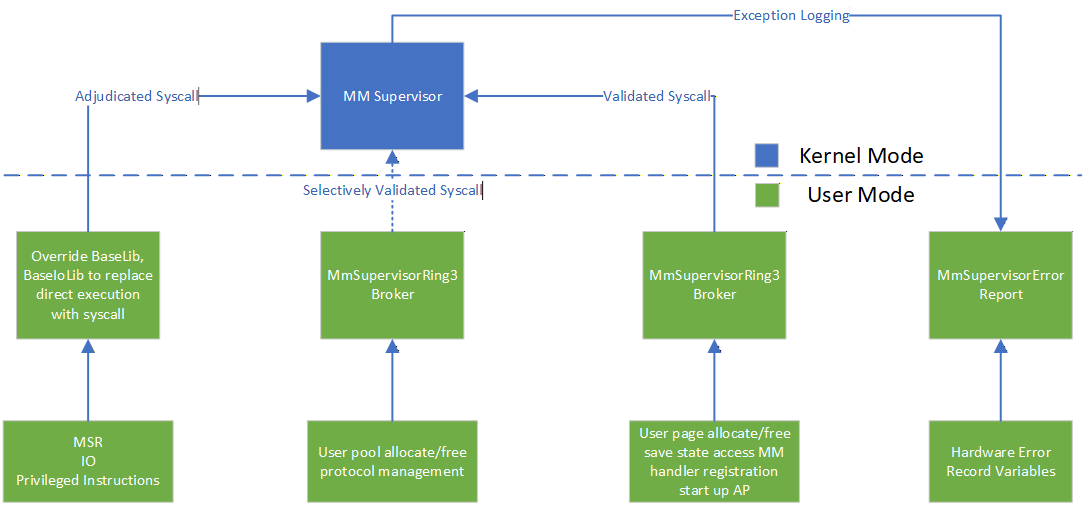
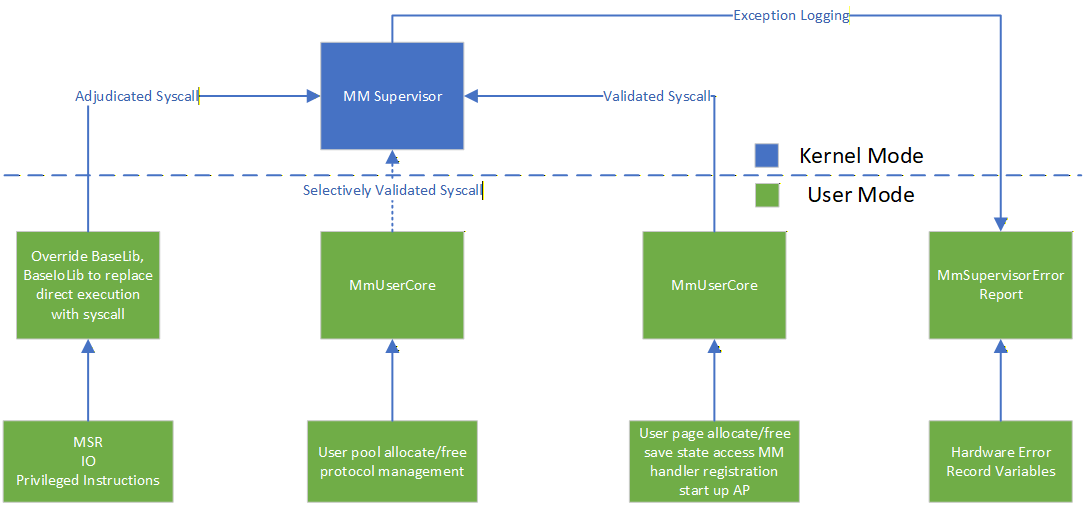
adding more comments after implementation

Changed region(s): [[0.5779, 0.5315, 0.73, 0.5906], [0.3041, 0.5315, 0.4258, 0.5906]]

diff --git a/docs/src/rfc/text/0000-mm-supv.md b/docs/src/rfc/text/0000-mm-supv.md
@@ -6,11 +6,12 @@ This RFC proposes a Rust-based supervisor to manage management mode (MM) operati
 
 - 2025-10-27: Initial RFC created.
 - 2025-01-09: Updated data handoff to HOB based model, advanced lock down event, added nutrient content tables.
+- 2025-02-23: Updated data handoff requirements after initial implementation. Added key differences from previous C implementations.
 
 ## Motivation
 
-Privilege separation in MM is critical for secure and reliable firmware execution, as MM code handles sensitive tasks such as
-system management interrupts (SMIs) and other privileged operations. By implementing the MM supervisor in Rust,
+Privilege separation in MM is critical for secure and reliable firmware execution, as MM code handles sensitive tasks such
+as system management interrupts (SMIs) and other privileged operations. By implementing the MM supervisor in Rust,
 we aim to leverage Rust's safety guarantees, memory management, and concurrency features to enhance the robustness
 of MM operations.
 
@@ -26,7 +27,8 @@ See reference: [PI specification v1.9](https://uefi.org/specs/PI/1.9/V4_Overview
 
 ### MM Supervisor
 
-A [project MU module](https://github.com/microsoft/mu_feature_mm_supv) implements a standalone MM supervisor in C. This module provides supervised MM functionality.
+A [project MU module](https://github.com/microsoft/mu_feature_mm_supv) implements a standalone MM supervisor in C. This
+module provides supervised MM functionality.
 Specifically, it manages MM handlers, MM protocol database, memory mapping, context switching, and secure execution of MM
 code. However, it lacks the safety and modern features that Rust can offer.
 
@@ -120,23 +122,9 @@ will be shut down at ExitBootServices, and the DXE agent hosting Supervisor comm
 [DxeSupport](https://github.com/microsoft/mu_feature_mm_supv/blob/main/MmSupervisorPkg/Drivers/MmPeiLaunchers/MmDxeSupport.inf))
 will be marked as boot services drivers (in contrast to runtime drivers).
 
-### MMI Entry Point
-
-This entry point is the assembly routine responsible for handling incoming MMIs. It will transition the CPU from 16-bit real mode
-all the way to 64-bit long mode, setting up the necessary environment for MM execution.
-
-This section is expected to be mostly similar to an implementation for Project MU's SMM Enhanced Attestation (SEA), which
-separated the critical jump pointers to data sections, allowing for easier inspection and updates.
-
-The main differences will be:
-
-1. The MMI entry point will need to handle MMI targeting evaluation (supervisor vs Ring3 broker)
-2. The MMI entry point will need to fix up an extra jump pointer to the Ring3 broker entry point
-3. The MMI entry point will enforce SMAP in CR4 for MM user mode execution
-
 ### MM Foundation Setup
 
-The MM foundation setup involves the following key tasks:
+The MM foundation setup, also called `mm_init` (pronunced as "minute"), involves the following key tasks:
 
 - Initialize memory services specific to MM
 - Initialize copied HOBs from non-MM environment
@@ -223,17 +211,44 @@ The following HOBs will be required for bootstrapping the Rust MM supervisor:
   };
 ```
 
+### MMI Entry Point
+
+This entry point is the assembly routine responsible for handling incoming MMIs. It will transition the CPU from 16-bit
+real mode all the way to 64-bit long mode, setting up the necessary environment for MM execution.
+
+This section is expected to be mostly similar to an implementation for Project MU's SMM Enhanced Attestation (SEA), which
+separated the critical jump pointers to data sections, allowing for easier inspection and updates.
+
+Accordingly, SEA responder structure attached to MMI entry code will be updated to v5, with the
+following fixup entry definitions:
+
+```c
+#define FIXUP64_SMM_DBG_ENTRY     0
+#define FIXUP64_SMM_DBG_EXIT      1
+#define FIXUP64_SMI_RDZ_ENTRY     2
+#define FIXUP64_XD_SUPPORTED      3
+#define FIXUP64_CET_SUPPORTED     4
+#define FIXUP64_SMI_HANDLER_IDTR  5
+#define FIXUP64_HOB_START         6
+```
+
+The main differences will be:
+
+1. The MMI entry point will not populate debugger entries like before
+1. The MMI entry point will need to fix up an extra input pointer to the ring3 mapped hob list
+1. The MMI entry point will enforce SMAP in CR4 for MM user mode execution
+
 ### MM Foundation Handoff Data to Rust MM Supervisor
 
 Given that the MM foundation setup is separated from the Rust MM supervisor, it will be necessary to separate the MM foundation
 produced data from the Rust MM supervisor. This data will be categorized into initialization-only data, shared data and
 external data.
 
-The initialization-only data will be used during the foundation setup phase and will be discarded after
-the foundation setup phase. These data fields will be fully contained as part of the initialization-only data section, and
-will be purged after the foundation setup phase.
+The initialization-only data will be used during the mm_init phase and will be discarded after
+the mm_init phase. These data fields will be fully contained as part of the initialization-only data section, and
+will be purged after the mm_init phase.
 
-The shared data fields will be passed from the foundation setup phase to the Rust MM supervisor region in MMRAM. i.e. memory
+The shared data fields will be passed from the mm_init phase to the Rust MM supervisor region in MMRAM. i.e. memory
 allocations from setup time, etc. The supervisor will invoke a one-time routine to inspect and/or deploy the shared data
 HOBs upon the first MMI.
 
@@ -251,9 +266,9 @@ previous section.
 #### MMI Targeting
 
 The Rust MM supervisor in the case of incoming MMIs will perform a check on the incoming RCX value to determine if the MMI
-is targeted for the supervisor or for the Ring3 broker. If it is targeted for the supervisor, it will dispatch to the appropriate
-supervisor handler. If it is targeted for the Ring3 broker, it will be transparent and quickly demote to MM user mode after
-performing necessary checks.
+is targeted for the supervisor or for the Rust user core. If it is targeted for the supervisor, it will dispatch to the
+appropriate supervisor handler. If it is targeted for the Rust user core, it will be transparent and quickly demote to MM
+user mode after performing necessary checks.
 
 Note that this is different from the existing C implementation, where the MMI targeting check is performed in a shared buffer
 between supervisor and normal world (aka. `MM_BUFFER_STATUS`).
@@ -266,22 +281,22 @@ MMRAM region, specific to the targeting mode, to ensure data integrity and prote
 If it is targeted for supervisor, the Rust MM supervisor will locate the appropriate supervisor handler and try to dispatch
 it. If the handler is not found, it will return an error status back to the caller.
 
-If it is targeted for Ring3 broker, the Rust MM supervisor will save all the syscall related MSRs, FXSAVE area, and other
-necessary context into the dedicated region and then demote to MM user mode to execute the Ring3 broker.
+If it is targeted for the Rust user core, the Rust MM supervisor will save all the syscall related MSRs, FXSAVE area, and
+other necessary context into the dedicated region and then demote to MM user mode to execute the Rust user core.
 
-The Ring 3 broker section will detail more about how the Ring3 broker is executed and how the context is restored back to
-supervisor mode.
+The Ring 3 broker section will detail more about how the Rust user core is executed and how the context is restored back
+to supervisor mode.
 
 #### Ring Transitioning
 
-The Rust MM supervisor will handle the transitioning between supervisor mode and MM user mode for Ring3 broker execution.
+The Rust MM supervisor will handle the transitioning between supervisor mode and MM user mode for the Rust user core execution.
 
 The demotion to MM user mode will be done via callgates by setting up the necessary callgates and task state segments (TSS)
-during the foundation setup phase. Before transitioning to MM user mode, the Rust MM supervisor will prepare the syscall
+during the mm_init phase. Before transitioning to MM user mode, the Rust MM supervisor will prepare the syscall
 context in the dedicated region, including parameters, MSRs, FX registers, supervisor stack pointer, and return segment
 selector.
 
-During user mode execution, the Ring3 broker will request elevated operations and trigger a syscall interrupt to transition
+During user mode execution, the Rust user core will request elevated operations and trigger a syscall interrupt to transition
 back to supervisor mode. The Rust MM supervisor will handle the syscall interrupt through a syscall dispatcher, restoring
 the saved context and stack before resuming supervisor mode execution.
 
@@ -361,7 +376,7 @@ For page allocation and free syscall, the Rust MM supervisor will manage a dedic
 The policy structure will continue to use the same format as the existing C implementation for compatibility with existing
 operating systems and toolings.
 
-The Rust MM supervisor will inherit the prepared security policies from the foundation setup phase. It will enforce the
+The Rust MM supervisor will inherit the prepared security policies from the mm_init phase. It will enforce the
 policies during syscall dispatching, ensuring that only allowed operations are executed based on the platform defined policies.
 
 The platform supplied policy should include 4 main categories:
@@ -375,7 +390,7 @@ The platform could choose to enforce strict policies that only allow a limited s
 by configuring the policies to allow by default.
 
 Depending on the policy entry content, the syscall dispatcher will either allow or deny the requested operation. For allowed
-operations, syscall will replay the requested operations and return the result back to the Ring3 broker.
+operations, syscall will replay the requested operations and return the result back to the Rust user core.
 
 For denied operations, the syscall dispatcher will return an error status and invoke the telemetry reporting mechanism to
 log the violation event. See more on telemetry reporting in the next sections.
@@ -384,7 +399,7 @@ log the violation event. See more on telemetry reporting in the next sections.
 
 The Rust MM supervisor will manage the page tables for both supervisor and MM user modes.
 
-As the MM core does not have a GCD, it will need to manage the page tables directly. In the foundation setup phase, the
+As the MM core does not have a GCD, it will need to manage the page tables directly. In the mm_init phase, the
 Rust MM supervisor loader will allocate a dedicated page pool for page table usage and security policy reporting.
 
 The loader will then set up the initial page tables, including mapping all necessary MMRAM regions, un-mapping non-MMRAM
@@ -421,7 +436,7 @@ environment supplied buffer for attestation purposes.
 
 Change from previous C implementation: The lock event will be moved from the end of DXE phase to the end of MM foundation
 setup phase to minimize the attack surface. This bears with the prerequisite that all necessary non-MM regions are unblocked
-during the foundation setup phase AND the support of PEI memory bin feature.
+during the mm_init phase AND the support of PEI memory bin feature.
 
 #### Supervisor Pool Allocator
 
@@ -430,7 +445,7 @@ The supervisor pool allocator will stem from dedicated supervisor pages and does
 #### Multiprocessor (MP) Support
 
 The MP support will be similar to the existing C implementation, where the Rust MM supervisor loader will initialize all
-processors during the foundation setup phase.
+processors during the mm_init phase.
 
 Upon invocation of each MMI, Rust MM supervisor will rendezvous all processors to ensure proper synchronization before
 handling the MMI.
@@ -450,6 +465,19 @@ the requested operation. During the operation, should the user mode operations r
 will trigger syscall interrupts to transition back to supervisor mode to handle the requests, if this is allowed by the
 security policies.
 
+#### Supervisor Patina Components
+
+Sticking to the same sensation of componentization as the existing Patina implementation for DXE enivonrment, the Rust MM
+supervisor will also support extensible components through the Patina component model. The components will be linked in
+the supervisor mode during build time and no dynamic loading will be supported for supervisor mode components to minimize
+the attack surface and simplify the implementation.
+
+#### Supervisor Handlers
+
+To simplify the implementation, the Rust MM supervisor will host a static set of critical handlers in the supervisor mode
+through `linkme`. The handlers will be iterated through if an MMI is found targeting the supervisor, and the first matched
+handler will be dispatched after validation.
+
 #### Rust MM Supervisor `Nutrient` Content
 
 With the above design in place, the first attempt will keep the Rust MM supervisor in parallel with the patina_dxe_core.
@@ -466,9 +494,26 @@ The Rust MM supervisor should consist of the following main components:
 | Page Table Manager | The page table manager for managing page tables for both supervisor and user modes | BSP | patina-paging |
 | Pool Allocator | The pool allocator for supervisor mode allocations | BSP | patina_dxe_core allocator, needs file relocation |
 
-### MM Ring3 Broker in Rust
+#### Change from previous C implementation
 
-This component will run in the MM user mode, providing a safe interface for MM clients to interact with the MM supervisor.
+- No BSP election mode will be supported: This is to ensure the deterministic execution of the MMI handlers, as well as
+simplifying the implementation by avoiding the need to handle the complexities of BSP election and the potential for
+executing MMI handlers on non-performant processors.
+- MTRR reconfiguration is disabled: Given the original purpose of MTRR reconfiguration is to cover the usage on IA32 and
+our current focus on x64 only, the MTRR reconfiguration will be disabled to simplify the implementation.
+- 1GB page support is a must: During mm_init phase, the initialization routine will inspect the CPU capabilities and set
+up the page tables with 1GB page support if available. The system will panic if the 1GB page support is not supported.
+This is to ensure the best performance for MM execution given the potential large memory size covered by MM, as well as
+simplifying the patina-paging implementation.
+- No CET support: Current C implementation has the superficial support for Control-flow Enforcement Technology (CET) by
+inheriting the code from PiSmmCpuDxeSmm, but it is not fully validated and has never been enabled. Given the complexity
+of CET implementation and needed patches in the MMI entry point, the CET support will be dropped in the first iteration
+of the Rust MM supervisor implementation.
+
+### MM Rust User Core in Rust
+
+This component will run in the MM user mode, (mm_user_core, pronounced as "muserker") providing a safe interface for MM
+clients to interact with the MM supervisor.
 The elevated operations will be requested through syscall, which will be handled by the Rust MM supervisor after security
 policy guided adjudication.
 
@@ -476,6 +521,7 @@ This component will be responsible for:
 
 - Initializing the MM user mode environment
 - Setting up telemetry reporting and fail fast component
+- Hosting the single jump pointer from supervisor mode to user mode through callgate
 - Providing shim version of MP services
 - Hosting pool allocator for MM user mode allocations
 - Hosting page allocator for MM user mode through syscall
@@ -484,31 +530,36 @@ This component will be responsible for:
 - Registering and dispatching fundamental events during boot phase for MM user mode
 - Dispatching other MM user mode drivers
 
-#### X64 Ring3 Broker Bootstrapping
+#### X64 Rust User Core Bootstrapping
 
-This section will detail the x86_64 specific bootstrapping steps for the Ring3 broker.
+This section will detail the x86_64 specific bootstrapping steps for the Rust user core.
 
-The Ring3 broker will have one and only one entry point, which will be patched into the MMI entry point during the foundation
+The Rust user core will have one and only one entry point, which will be patched into the MMI entry point during the foundation
 setup phase.
 
 The entry point will support 3 types of invocations:
 
-- Initialization: The first invocation will be from the Rust MM supervisor during the foundation setup phase to initialize
-  the Ring3 broker environment.
+- Initialization: The first invocation will be from the Rust MM supervisor during the mm_init phase to initialize
+  the Rust user core environment. Specifically, this involves:
+  - Setting up memory service;
+  - Initialize MMI handler database for MM user mode;
+  - Initialize protocol database for MM user mode;
+  - Iterate through the HOB list and discover the loaded MM standalone drivers, as well as their dependencies, and dispatch
+  accordingly;
 - Normal MMI handling: Subsequent invocations will be from the Rust MM supervisor during normal MMI handling to demote
-  to MM user mode for Ring3 broker execution.
+  to MM user mode for Rust user core execution.
 - Exception Handling: Invocations from the supervisor to log exceptions.
 
-When the supervisor demotes to MM user mode for Ring3 broker execution, RCX will contain the opcode for needed operation.
+When the supervisor demotes to MM user mode for Rust user core execution, RCX will contain the opcode for needed operation.
 
-#### MM Ring3 Broker `Nutrient` Content
+#### MM Rust User Core `Nutrient` Content
 
-With the above design in place, the first attempt will keep the ring3 broker in parallel with the patina_dxe_core.
+With the above design in place, the first attempt will keep the rust user core in parallel with the patina_dxe_core.
 The Rust MM supervisor should consist of the following main components:
 
 | Component | Description | Executor | Status |
 | - | - | - | - |
-| Initialization Routine | The one-time initialization routine for the ring3 broker | BSP | Similar to the entrypoint of patina_dxe_core, but needs some moderate adaptations |
+| Initialization Routine | The one-time initialization routine for the rust user core | BSP | Similar to the entrypoint of patina_dxe_core, but needs some moderate adaptations |
 | Protocol Database | The protocol database for MM user mode | BSP | patina_dxe_core protocol DB, needs file relocation and non-TPL based lock |
 | MMI Handler Database | The MMI handler database for MM user mode | BSP | To be implemented |
 | MM services table | The MM services table (gMmst) for MM user mode | BSP | To be implemented |
@@ -517,21 +568,21 @@ The Rust MM supervisor should consist of the following main components:
 | Pool Allocator | The pool allocator for user mode allocations | BSP | patina_dxe_core allocator, needs file relocation |
 | Shim MP Services | The MP services that requests supervisor to perform operations on behalf of MM user mode | BSP | To be implemented |
 
-### MM User Mode Driver Model
+### MM User Mode Component Model
 
 ### Telemetry Reporting and Fail Fast Mechanism
 
-The telemetry reporting and fail fast mechanism will be hosted in the Rust ring3 broker in the form of a component so that
-the coverage will be comprehensive since the boot phase.
+The telemetry reporting and fail fast mechanism will be hosted in the Rust user core in the form of a patina component so
+that the coverage will be comprehensive since the boot phase.
 
 When this operation is invoked from supervisor mode, the Rust MM supervisor will pass the some information from the exception
-site to the Ring3 broker for logging, including:
+site to the Rust user core for logging, including:
 
 - Instruction pointer (RIP)
 - Exception type
 
-The exception logging will be done in the Ring3 broker, which will format the information log entry into a predefined WHEA
-section, formatted as below:
+The exception logging will be done in the Rust user core, which will format the information log entry into a predefined
+WHEA section, formatted as below:
 
 ```Rust
 struct MmExceptionLogEntry {
@@ -552,10 +603,10 @@ pub const WHEA_TELEMETRY_SECTION_TYPE_GUID: efi::Guid =
     efi::Guid::from_fields(0x85183a8b, 0x9c41, 0x429c, 0x93, 0x9c, &[0x5c, 0x3c, 0x08, 0x7c, 0xa2, 0x80]);
 ```
 
-If the UEFI variable service is available, the Ring3 broker will attempt to write the log entry into a HwErrRec UEFI
+If the UEFI variable service is available, the Rust user core will attempt to write the log entry into a HwErrRec UEFI
 variable for persistence across reboots. Otherwise, it will store the log entry into CMOS for retrieval across reboots.
 
-Fail fast mechanism will be HEST ACPI table based. Once the telemetry reporting routine is completed, the Ring3 broker
+Fail fast mechanism will be HEST ACPI table based. Once the telemetry reporting routine is completed, the Rust user core
 will inject a fatal error into the HEST table before returning back to supervisor mode.
 
 Once back in supervisor mode, the Rust MM supervisor will inject an NMI into the current core before returning, which will
@@ -591,7 +642,7 @@ The Rust-based MM supervisor will provide a safer and more efficient implementat
 safety guarantees and modern features. It will be integrated with the Patina framework to ensure a consistent and efficient
 implementation.
 
-  The supervisor will handle MMIs, manage memory and page tables, and enforce security policies, while the Ring3 broker
+  The supervisor will handle MMIs, manage memory and page tables, and enforce security policies, while the Rust user core
   will provide a safe interface for MM clients to interact with the MM supervisor.
 
   The Rust MM supervisor will be designed to minimize the amount of code in supervisor mode, reduce the attack surface,
@@ -608,13 +659,13 @@ as well as closing and locking MMRAMs after initialization.
 2. __MM Foundation Setup__: The MM foundation setup will be performed by the MM initialization module, which will prepare
 the environment for the Rust MM supervisor. This includes initializing memory services, setting up MM entry code, stack
 buffers, setting up page tables, initializing secure policies, setting up IDT and GDT, as well as privilege management routines.
-3. __MM Foundation Handoff__: The data prepared during the foundation setup phase will be updated to the Rust MM supervisor.
+3. __MM Foundation Handoff__: The data prepared during the mm_init phase will be updated to the Rust MM supervisor.
 The handoff data will is generated by the foundation setup module and will only include shared data and external data, but
 not initialization-only data.
 4. __MM Supervisor in Rust__: Once the foundation setup is complete, the first MMI will transfer control to the Rust MM
 supervisor. The Rust MM supervisor will then handle incoming MMIs, manage memory and page tables, and enforce security policies.
-5. __MM Ring3 Broker in Rust__: The MM Ring3 broker will run in the MM user mode, serving as the core component in the user
-mode while interacting with the Rust MM supervisor. The Ring3 broker will handle user mode operations and dispatch them
+5. __MM User Core in Rust__: The MM Rust user core will run in the MM user mode, serving as the core component in the user
+mode while interacting with the Rust MM supervisor. The Rust user core will handle user mode operations and dispatch them
 to the appropriate handlers in the Rust MM supervisor.
 
 ### User-Level Explanation
@@ -622,7 +673,7 @@ to the appropriate handlers in the Rust MM supervisor.
 A regular MM standalone MM driver will be execute in the MM user mode, and will interact with the MM supervisor through
 syscall. The Rust MM supervisor will handle these syscall, manage memory and page tables, and enforce security policies.
 
-The MM Ring3 broker will provide a safe instance of `gMmst` for MM clients to support the fundamental services that are
+The MM Rust user core will provide a safe instance of `gMmst` for MM clients to support the fundamental services that are
 required by MM clients, such as memory allocation, protocol database access, and MMI handler registration.
 
 The user modules will continue to use the library primitives from MmSupervisorPkg for interacting with the MM supervisor,
